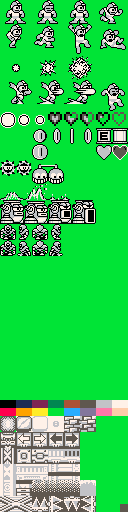
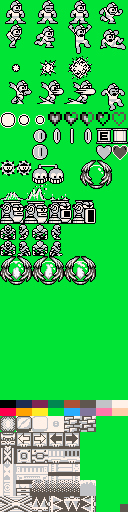
Adding basic check point system. If you die after triggering one, you will respawn on that map at that checkpoint. See comments above class for remaining work.

Changed region(s): [[0.0, 0.5, 0.75, 0.5625], [0.625, 0.3125, 0.875, 0.375]]

diff --git a/mbh-platformer/mbh-platformer/Game1.cs b/mbh-platformer/mbh-platformer/Game1.cs
@@ -3068,6 +3068,95 @@ namespace mbh_platformer
             }
         }
 
+        // TODO:
+        // * Trigger save when entering checkpoint.
+        // * Show as active when returning to the map with the last active checkpoint.
+        // * Save the last used checkpoint, and load into that map when resuming game.
+        public class checkpoint : sprite
+        {
+            // Is this the currently active checkpoint.
+            public bool is_activated { get; private set; }
+
+            // The name of the map where this checkpoint spawned.
+            public string map_name;
+
+            public checkpoint()
+            {
+                anims = new Dictionary<string, anim>()
+                {
+                    {
+                        "off",
+                        new anim()
+                        {
+                            ticks=30,//how long is each frame shown.
+                            frames = new int[][]
+                            {
+                                create_anim_frame(330, 4, 4),
+                            }
+                        }
+                    },
+                    {
+                        "on",
+                        new anim()
+                        {
+                            ticks=10,//how long is each frame shown.
+                            frames = new int[][]
+                            {
+                                create_anim_frame(512, 4, 4),
+                                create_anim_frame(516, 4, 4),
+                                create_anim_frame(520, 4, 4),
+                            }
+                        }
+                    },
+                };
+
+                is_activated = false;
+
+                set_anim("off");
+
+                w = 32;
+                h = 32;
+                cw = 16;
+                ch = 16;
+            }
+
+            public override void _update60()
+            {
+                base._update60();
+
+                if (!is_activated && inst.intersects_obj_obj(this, inst.pc.pawn))
+                {
+                    // Deactive the currently active one.
+                    if (inst.last_activated_checkpoint != null)
+                    {
+                        inst.last_activated_checkpoint.deactivate();
+                    }
+
+                    inst.last_activated_checkpoint = this;
+                    map_name = inst.current_map;
+                    is_activated = true;
+                    set_anim("on");
+
+                    // Check if any other checkpoints are active on the map, and
+                    // deactivate them.
+                    //foreach (PicoXObj o in inst.objs)
+                    //{
+                    //    checkpoint c = o as checkpoint;
+                    //    if (c != null && c != this)
+                    //    {
+                    //        c.deactivate();
+                    //    }
+                    //}
+                }
+            }
+
+            public void deactivate()
+            {
+                is_activated = false;
+                set_anim("off");
+            }
+        }
+
         public enum game_state
         {
             main_menu,
@@ -3096,6 +3185,8 @@ namespace mbh_platformer
 
         public int cur_level_id = 0;
         public int gems_per_level = 4;
+
+        public checkpoint last_activated_checkpoint;
 
         public class message_box
         {
@@ -3152,8 +3243,12 @@ namespace mbh_platformer
 
         public void set_game_state(game_state new_state)
         {
+            // Used in the case of entering gameplay, both from transitioning maps,
+            // and flow between states.
+            Vector2 spawn_point = Vector2.Zero;
+
             // Leaving...
-            switch(cur_game_state)
+            switch (cur_game_state)
             {
                 case game_state.main_menu:
                     {
@@ -3175,6 +3270,21 @@ namespace mbh_platformer
                         }
                         break;
                     }
+
+                case game_state.game_over:
+                    {
+                        if (new_state == game_state.gameplay)
+                        {
+                            if (last_activated_checkpoint != null)
+                            {
+                                current_map = last_activated_checkpoint.map_name;
+                                queued_map = current_map;
+                                spawn_point.X = last_activated_checkpoint.cx;
+                                spawn_point.Y = last_activated_checkpoint.cy;
+                            }
+                        }
+                        break;
+                    }
             }
 
             cur_game_state = new_state;
@@ -3187,15 +3297,14 @@ namespace mbh_platformer
                     {
                         current_map = queued_map;
 
+                        Vector2 cam_area_min = Vector2.Zero;
+                        Vector2 cam_area_max = Vector2.Zero;
+
                         objs.Clear();
                         objs_remove_queue.Clear();
                         objs_add_queue.Clear();
 
                         reloadmap(GetMapString());
-
-                        Vector2 spawn_point = Vector2.Zero;
-                        Vector2 cam_area_min = Vector2.Zero;
-                        Vector2 cam_area_max = Vector2.Zero;
 
                         TmxMap TmxMapData = new TmxMap(GetMapString());
 
@@ -3223,7 +3332,11 @@ namespace mbh_platformer
                             {
                                 if (string.Compare(o.Type, "spawn_point", true) == 0)
                                 {
-                                    spawn_point = new Vector2((float)o.X + ((float)o.Width * 0.5f), (float)o.Y + ((float)o.Height * 0.5f));
+                                    // Account for the case of a checkpoint.
+                                    if (spawn_point == Vector2.Zero)
+                                    {
+                                        spawn_point = new Vector2((float)o.X + ((float)o.Width * 0.5f), (float)o.Y + ((float)o.Height * 0.5f));
+                                    }
 
                                     // mandatory field.
                                     switch (o.Properties["type"])
@@ -3285,6 +3398,16 @@ namespace mbh_platformer
                                 {
                                     objs_add_queue.Add(
                                             new steam_spawner()
+                                            {
+                                                x = (float)o.X + ((float)o.Width * 0.5f),
+                                                y = (float)o.Y + ((float)o.Height * 0.5f),
+                                            }
+                                        );
+                                }
+                                else if (string.Compare(o.Type, "spawn_checkpoint", true) == 0)
+                                {
+                                    objs_add_queue.Add(
+                                            new checkpoint()
                                             {
                                                 x = (float)o.X + ((float)o.Width * 0.5f),
                                                 y = (float)o.Y + ((float)o.Height * 0.5f),
@@ -3353,7 +3476,6 @@ namespace mbh_platformer
                                 }
                             }
                         }
-
 
                         //objs_add_queue.Add(new rock() { x = 37 * 8, y = 97 * 8, });
                         //objs_add_queue.Add(new rock() { x = 37 * 8, y = 89 * 8, });
